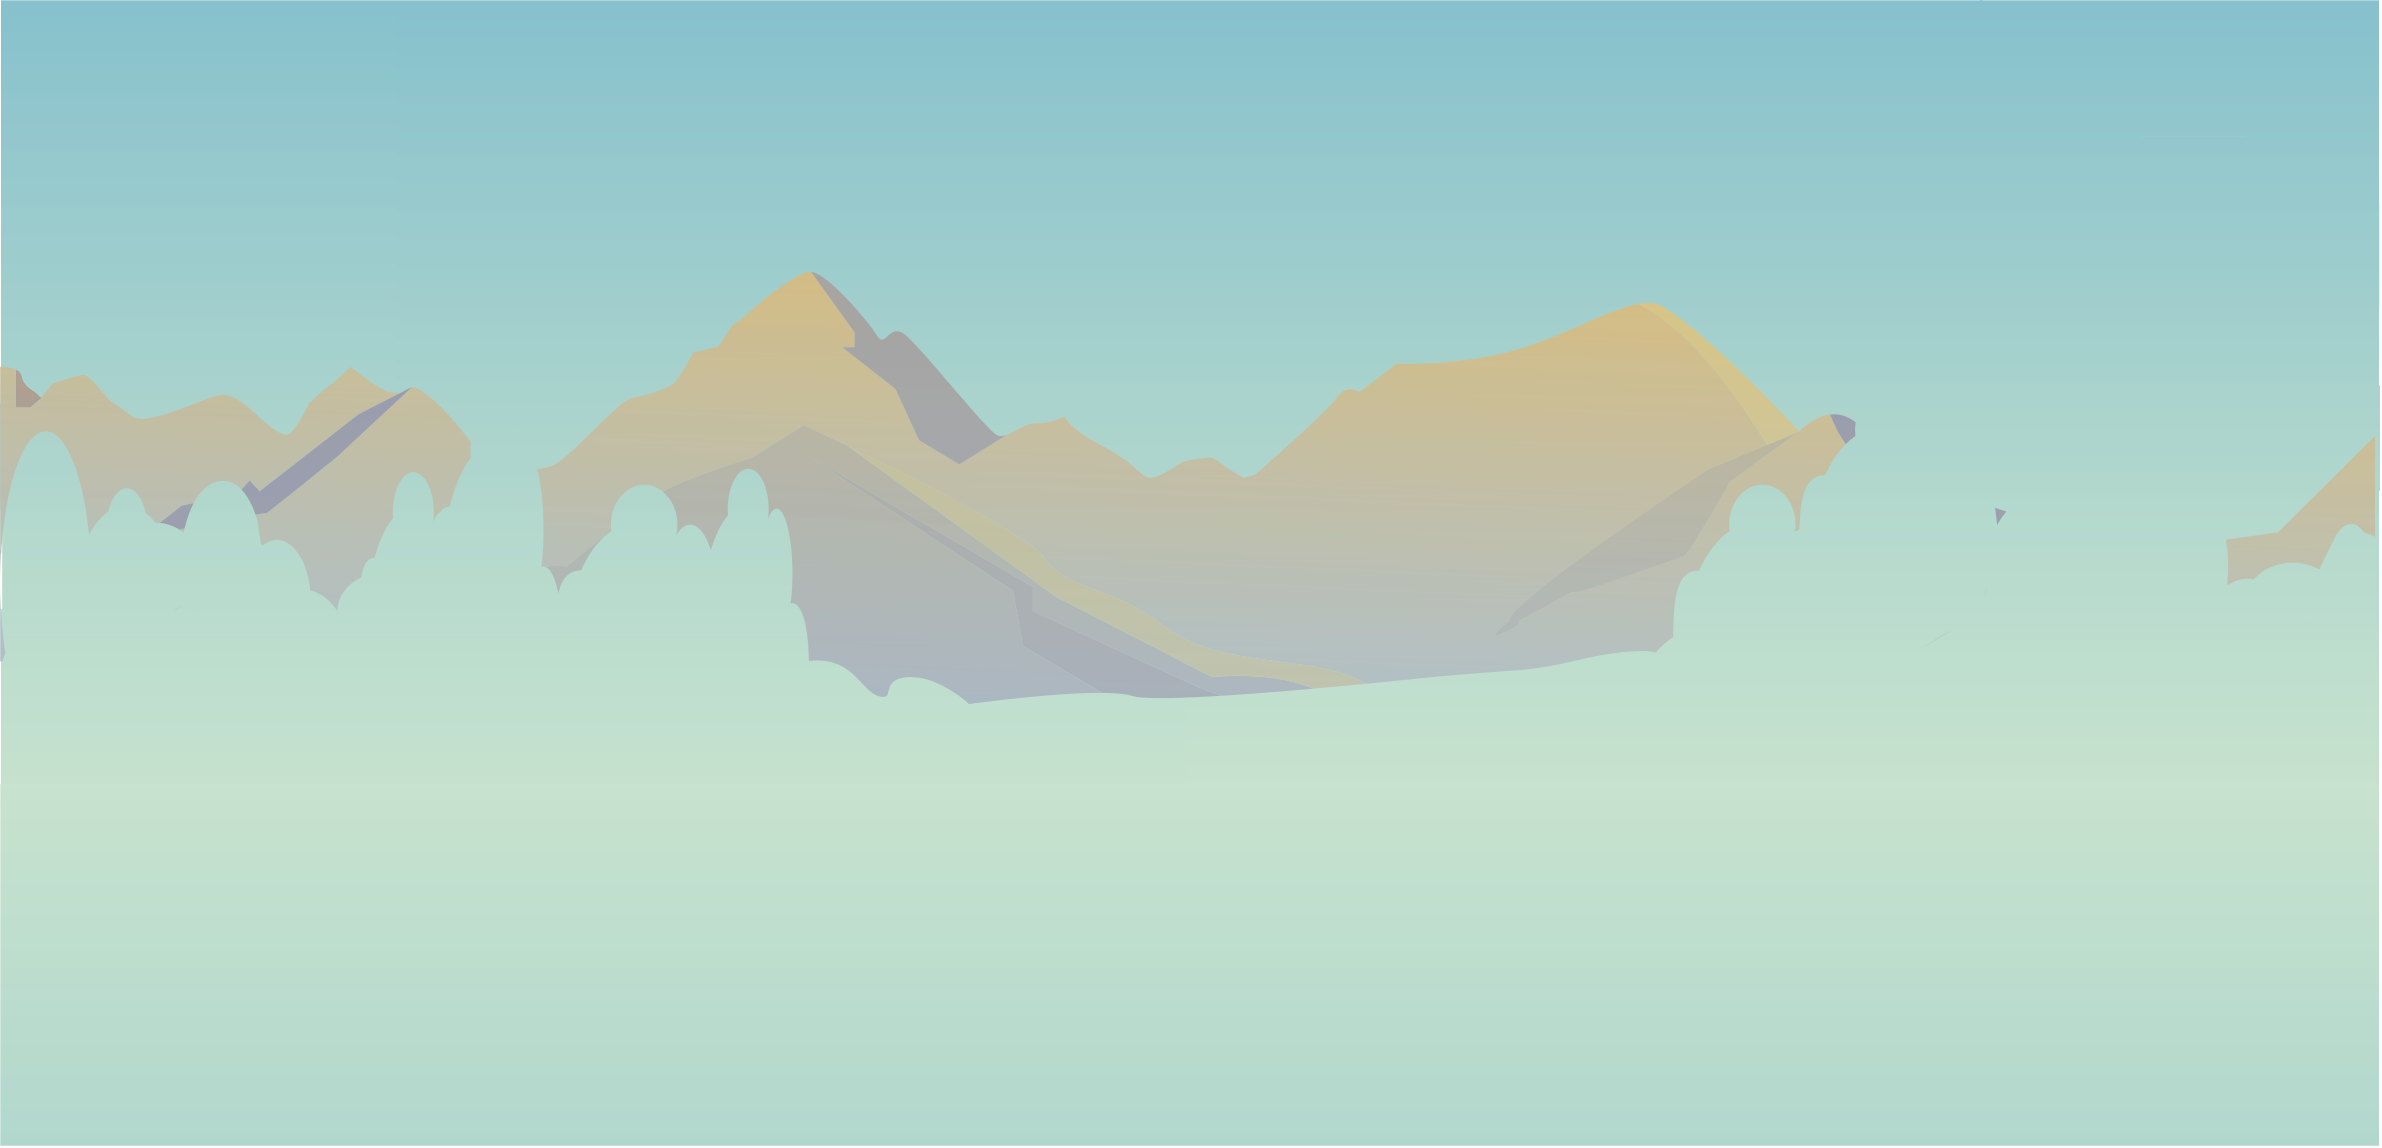
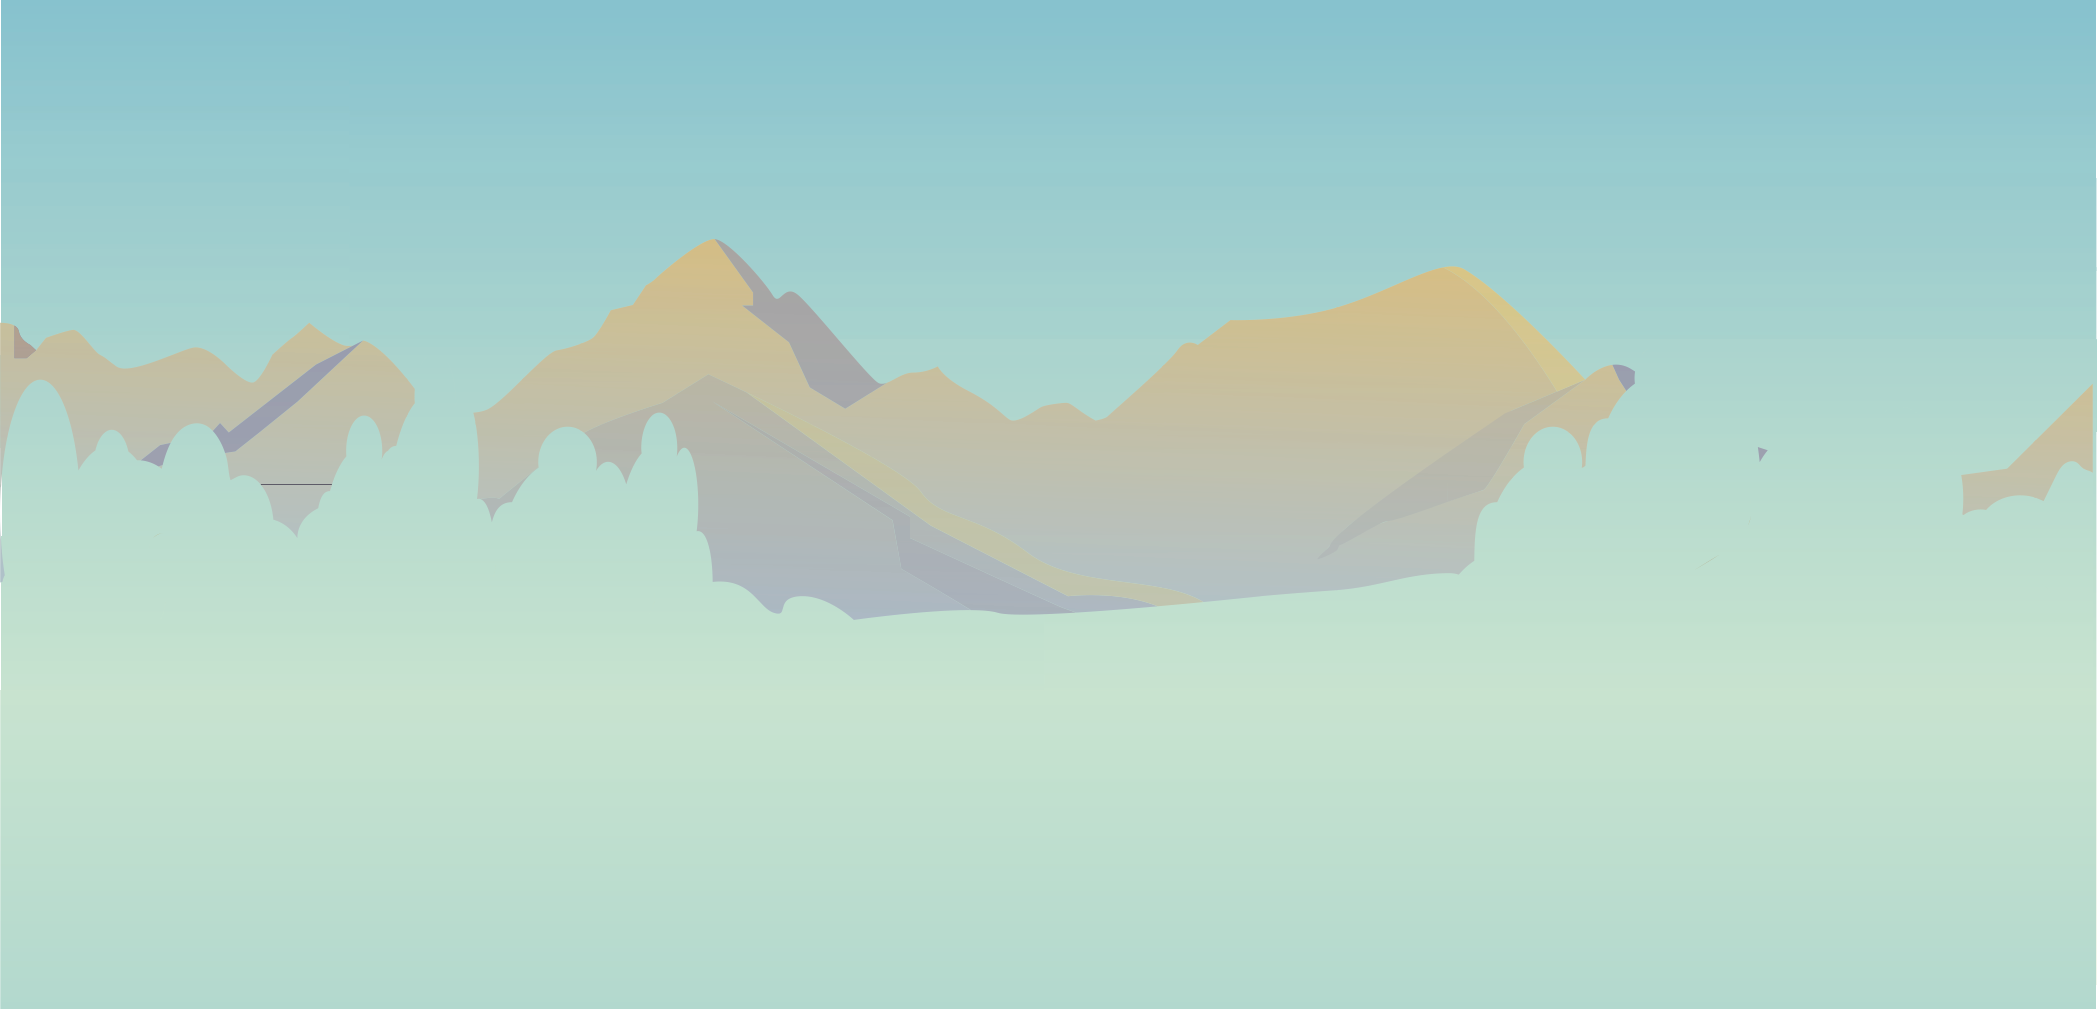
fix img

Changed region(s): [[0.0, 0.0, 1.0, 1.0]]

diff --git a/index.html b/index.html
@@ -26,8 +26,8 @@
     <section>
         <div id="fullpage">    
             <div class="section slide1 fp-auto-height-responsive">
-                 <img src="assets/cloud22.png" id="cloud22">
-                  <img src="assets/cloud11.png" id="cloud11">
+                 <img src="assets/cloud2.png" id="cloud22">
+                  <img src="assets/cloud1.png" id="cloud11">
                    <img src="assets/cloud1.png" id="cloud1">
                     <img src="assets/cloud2.png" id="cloud2">
                      <img src="assets/sun.png" id="sun">
@@ -38,7 +38,6 @@
 
             <div class="section slide2 fp-auto-height-responsive" > 
                 <img src="assets/under1.png" class="underground1">
-                    <img src="assets/under2.png" class="underground2">
                         <div class="textbox">
                             <h2 id="neonthis"><br>red team <br>design</h2>
                                 <p>Повседневная практика показывает, что реализация намеченных плановых заданий в значительной степени обуславливает создание модели развития. 
@@ -46,7 +45,7 @@
                         </div>
             </div> 
             <div class="section slide3 fp-auto-height-responsive" >
-                <img src="assets/secondunder1.png" class="underground3">
+                <img src="assets/secondunder1.png" class="underground2">
                         <div class="textbox">
                             <h2 id="neo">technology</h2>
                                 <p>Повседневная практика показывает, что реализация намеченных плановых заданий 

diff --git a/style.css b/style.css
@@ -122,13 +122,13 @@ section img#front
 
 section img#cloud1
 {
-    opacity: 55%;
+    opacity: 70%;
     z-index: 11;
 }
 section img#cloud2
 {
     
-    opacity: 55%;
+    opacity: 30%;
     z-index: 11;
 }
 
@@ -173,12 +173,8 @@ section img#cloud22
     height: 100%;
     z-index: 10;
    }
-   .underground2 {
-     object-fit: fill;
-     height: 100%;
-     z-index: 9;
-    }
-    .underground3 {
+   
+    .underground2 {
         object-fit: fill;
         width: 100%;
         height: 101%;
@@ -211,17 +207,13 @@ section img#cloud22
    
     .underground1 {
        object-fit: cover;
-       height: 100%;
+       height: 101%;
        z-index: 10;
   
       }
-      .underground2 {
-        object-fit: cover;
-        height: 89%;
-        z-index: 9;
-       }
+     
        
-       .underground3 {
+       .underground2 {
         object-fit: cover;
         height: 101%;
         z-index: 10;
@@ -347,8 +339,8 @@ section img#cloud22
     }
     section img#sun
     {
-        transform: translateY(-200px);
-        z-index: 11;
+        transform: translateY(-330px);
+        z-index: 7;
     }
    
 }
